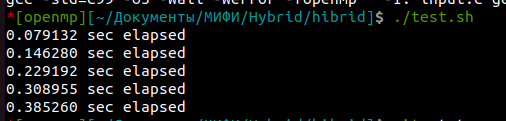
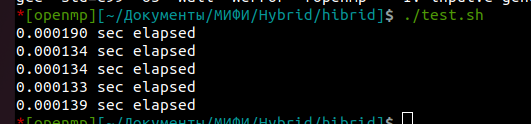
modify algo

Changed region(s): [[0.0, 0.0, 0.9486, 1.0], [0.7411, 0.0, 1.0, 0.0744], [0.8597, 0.9917, 0.919, 1.0]]

diff --git a/process.c b/process.c
@@ -3,15 +3,15 @@
 
 void process(int N, int M, float **vector_mn, float **matrix_nn, float **result_vectors)
 {
-    omp_set_dynamic(0);      // запретить библиотеке openmp менять число потоков во время исполнения
-    omp_set_num_threads(2);
-    
     int k = 0;
-    #pragma omp parallel for shared(vector_mn, matrix_nn) private(k)
+    int p = 0;
+    omp_set_dynamic(0);      // запретить библиотеке openmp менять число потоков во время исполнения
+    omp_set_num_threads(8);
+    #pragma omp parallel for private(vector_mn, matrix_nn, result_vectors, k, p)
     for ( k=0; k < M; k++) {
         float *vector = vector_mn[k];
         float *res_vector = result_vectors[k];
-        for (int p = 0; p < N; p++) {
+        for ( p = 0; p < N; p++) {
             float *matrix_line = matrix_nn[p];
             float res = 0;
             for (int b = 0; b < N; b++) {
